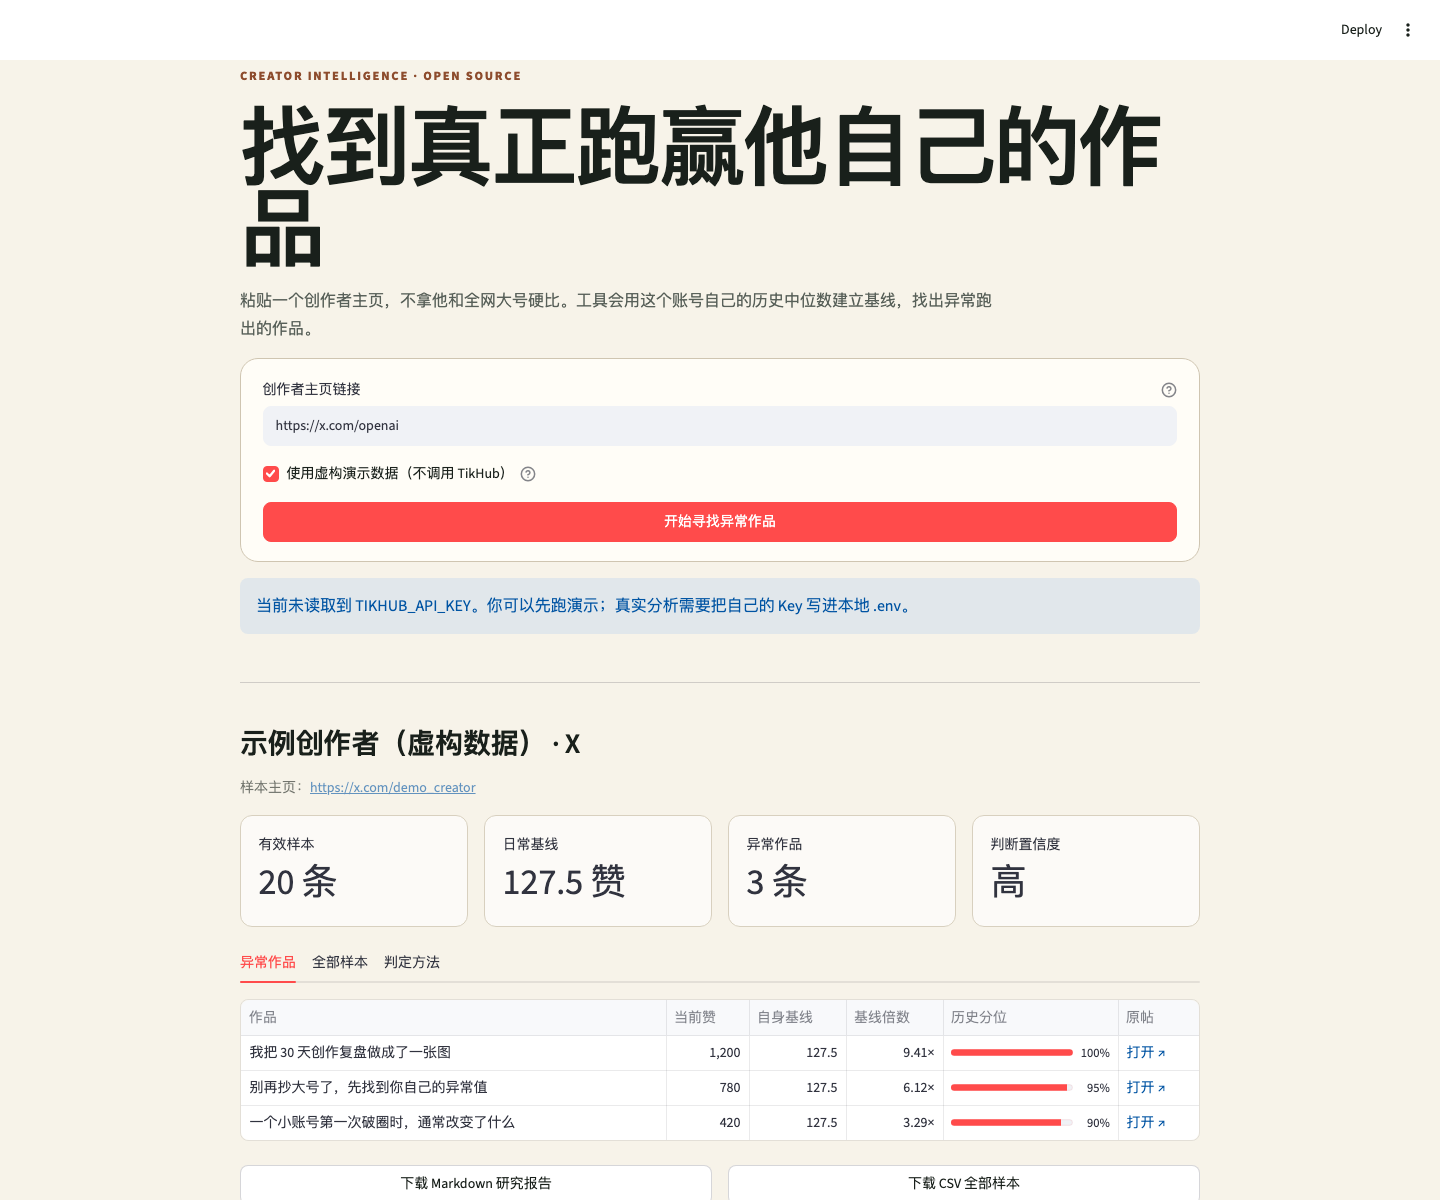
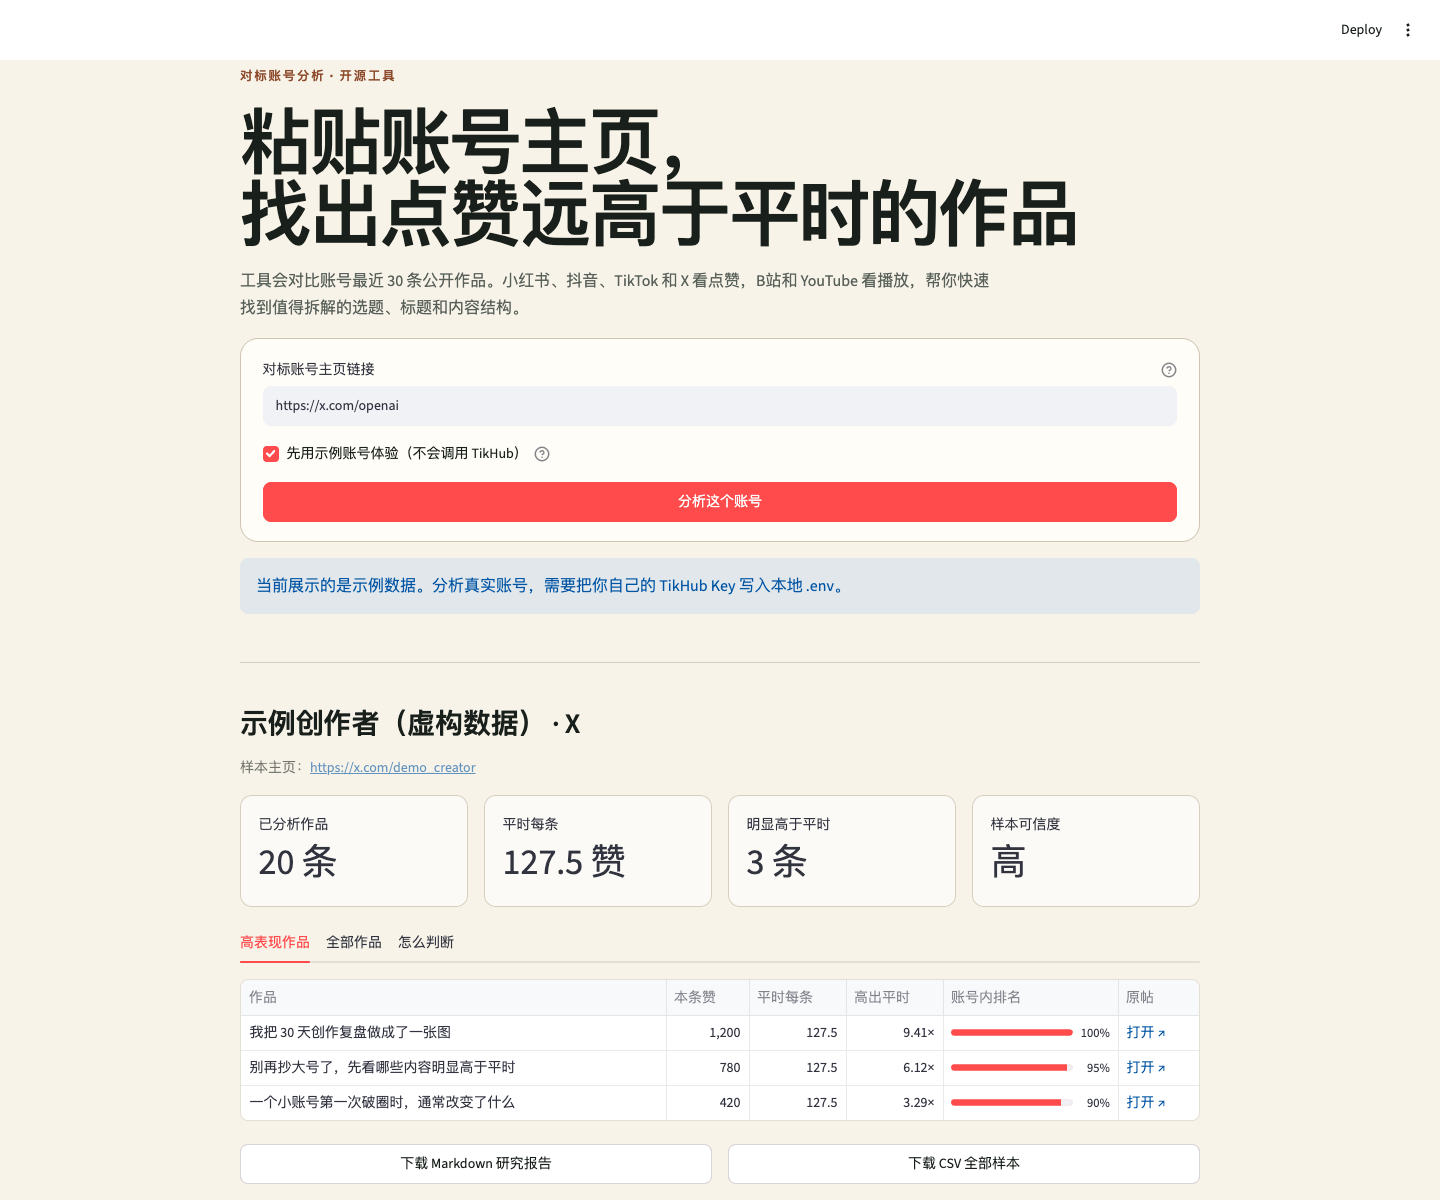
Clarify product copy for v0.1.1 (#1)
Use the confirmed plain-language hero, simplify result labels and reports, refresh the README screenshot, and bump the package version.

diff --git a/app.py b/app.py
@@ -59,7 +59,7 @@ st.markdown(
       .stApp { background: #f7f3e9; color: #19201b; }
       .block-container { max-width: 1120px; padding-top: 3.2rem; padding-bottom: 5rem; }
       h1, h2, h3 { letter-spacing: -0.03em; }
-      h1 { font-size: clamp(2.7rem, 6vw, 5.4rem) !important; line-height: .95 !important; }
+      h1 { font-size: clamp(2.7rem, 5vw, 4.8rem) !important; line-height: 1 !important; }
       [data-testid="stMetric"] { background: rgba(255,255,255,.62); border: 1px solid #d8d0bf;
         border-radius: 12px; padding: 1rem 1.1rem; }
       [data-testid="stForm"] { background: #fffdf7; border: 1px solid #cfc5b1;
@@ -74,11 +74,14 @@ st.markdown(
     unsafe_allow_html=True,
 )
 
-st.markdown('<div class="eyebrow">Creator intelligence · Open source</div>', unsafe_allow_html=True)
-st.title("找到真正跑赢他自己的作品")
+st.markdown('<div class="eyebrow">对标账号分析 · 开源工具</div>', unsafe_allow_html=True)
 st.markdown(
-    '<p class="lead">粘贴一个创作者主页，不拿他和全网大号硬比。'
-    "工具会用这个账号自己的历史中位数建立基线，找出异常跑出的作品。</p>",
+    "<h1>粘贴账号主页，<br>找出点赞远高于平时的作品</h1>",
+    unsafe_allow_html=True,
+)
+st.markdown(
+    '<p class="lead">工具会对比账号最近 30 条公开作品。小红书、抖音、TikTok 和 X 看点赞，'
+    "B站和 YouTube 看播放，帮你快速找到值得拆解的选题、标题和内容结构。</p>",
     unsafe_allow_html=True,
 )
 
@@ -88,21 +91,21 @@ if st.query_params.get("demo") == "1" and "analysis_result" not in st.session_st
 
 with st.form("analysis-form"):
     url = st.text_input(
-        "创作者主页链接",
+        "对标账号主页链接",
         value="https://x.com/openai",
         placeholder="支持小红书、抖音、B站、TikTok、YouTube 和 X",
         help="只接受完整的 HTTPS 创作者主页，不接受作品链接或短链接。",
     )
     use_demo = st.checkbox(
-        "使用虚构演示数据（不调用 TikHub）",
+        "先用示例账号体验（不会调用 TikHub）",
         value=not has_key,
         help="演示数据完全离线，不包含任何真实账号信息。",
     )
-    submitted = st.form_submit_button("开始寻找异常作品", type="primary", width="stretch")
+    submitted = st.form_submit_button("分析这个账号", type="primary", width="stretch")
 
 if submitted:
     try:
-        with st.spinner("正在建立这个账号的历史基线…"):
+        with st.spinner("正在对比这个账号最近的作品…"):
             st.session_state["analysis_result"] = _fetch_and_analyze(url, use_demo)
         st.session_state.pop("analysis_error", None)
     except (ValueError, MissingApiKey, TikHubError, InsufficientSampleError) as error:
@@ -110,7 +113,7 @@ if submitted:
         st.session_state.pop("analysis_result", None)
     except Exception:
         st.session_state["analysis_error"] = (
-            "分析失败，请稍后重试。为保护你的密钥，详细异常不会显示在页面上。"
+            "分析失败，请稍后重试。为保护你的密钥，详细错误不会显示在页面上。"
         )
         st.session_state.pop("analysis_result", None)
 
@@ -118,7 +121,7 @@ if error_message := st.session_state.get("analysis_error"):
     st.error(error_message)
 
 if not has_key:
-    st.info("当前未读取到 TIKHUB_API_KEY。你可以先跑演示；真实分析需要把自己的 Key 写进本地 .env。")
+    st.info("当前展示的是示例数据。分析真实账号，需要把你自己的 TikHub Key 写入本地 .env。")
 else:
     st.caption(
         "已从本地环境读取 TikHub Key。Key 不会进入页面、报告或仓库。真实请求可能产生 TikHub 费用。"
@@ -133,23 +136,23 @@ if result is not None:
     st.caption(f"样本主页：{creator.homepage_url}")
 
     metric_columns = st.columns(4)
-    metric_columns[0].metric("有效样本", f"{result.sample_size} 条")
-    metric_columns[1].metric("日常基线", f"{_format_number(result.baseline)} {result.metric_label}")
-    metric_columns[2].metric("异常作品", f"{len(result.breakouts)} 条")
-    metric_columns[3].metric("判断置信度", CONFIDENCE_LABELS[result.confidence])
+    metric_columns[0].metric("已分析作品", f"{result.sample_size} 条")
+    metric_columns[1].metric("平时每条", f"{_format_number(result.baseline)} {result.metric_label}")
+    metric_columns[2].metric("明显高于平时", f"{len(result.breakouts)} 条")
+    metric_columns[3].metric("样本可信度", CONFIDENCE_LABELS[result.confidence])
 
-    breakout_tab, sample_tab, method_tab = st.tabs(["异常作品", "全部样本", "判定方法"])
+    breakout_tab, sample_tab, method_tab = st.tabs(["高表现作品", "全部作品", "怎么判断"])
     with breakout_tab:
         if not result.breakouts:
-            st.success("这批样本里没有作品同时越过三道门槛。没有异常，也是一条有用结论。")
+            st.success("这批作品里没有找到明显高于账号平时水平的内容。")
         else:
             rows = [
                 {
                     "作品": item.post.title,
-                    f"当前{result.metric_label}": item.value,
-                    "自身基线": item.baseline,
-                    "基线倍数": item.multiple,
-                    "历史分位": item.percentile / 100,
+                    f"本条{result.metric_label}": item.value,
+                    "平时每条": item.baseline,
+                    "高出平时": item.multiple,
+                    "账号内排名": item.percentile / 100,
                     "原帖": item.post.url,
                 }
                 for item in result.breakouts
@@ -160,10 +163,10 @@ if result is not None:
                 width="stretch",
                 column_config={
                     "作品": st.column_config.TextColumn(width="large"),
-                    f"当前{result.metric_label}": st.column_config.NumberColumn(format="localized"),
-                    "自身基线": st.column_config.NumberColumn(format="localized"),
-                    "基线倍数": st.column_config.NumberColumn(format="%.2f×"),
-                    "历史分位": st.column_config.ProgressColumn(
+                    f"本条{result.metric_label}": st.column_config.NumberColumn(format="localized"),
+                    "平时每条": st.column_config.NumberColumn(format="localized"),
+                    "高出平时": st.column_config.NumberColumn(format="%.2f×"),
+                    "账号内排名": st.column_config.ProgressColumn(
                         min_value=0, max_value=1, format="percent"
                     ),
                     "原帖": st.column_config.LinkColumn(display_text="打开 ↗"),
@@ -189,11 +192,11 @@ if result is not None:
     with sample_tab:
         all_rows = [
             {
-                "异常": "是" if item.is_breakout else "否",
+                "明显高于平时": "是" if item.is_breakout else "否",
                 "作品": item.post.title,
                 result.metric_label: item.value,
-                "倍数": item.multiple,
-                "分位": f"{item.percentile:.1f}%",
+                "高出平时": item.multiple,
+                "账号内排名": f"{item.percentile:.1f}%",
                 "原帖": item.post.url,
             }
             for item in result.scored
@@ -212,11 +215,12 @@ if result is not None:
         st.markdown(
             """
             1. 读取最近 30 条带有效指标的公开作品。
-            2. 用中位数代表账号的日常水平，避免少量超级爆款拉高基线。
-            3. 候选作品必须同时满足：达到基线 2 倍、进入历史前 10%、越过绝对量下限。
+            2. 用中位数估算这个账号平时每条能拿到多少赞或播放。
+            3. 一条作品必须至少达到平时的 2 倍、排进样本前 10%，并超过最低数据门槛。
             4. YouTube 和 B站使用播放量，其余平台使用点赞量。
 
-            这是一次性历史快照。它能发现异常表现，但不能证明爆款原因，也不等同于实时增长速度。
+            这是一次性历史快照。它能找出数据明显高于平时的作品，但不能证明走红原因，
+            也不等同于实时增长速度。
             """
         )
 

diff --git a/src/creator_breakout/report.py b/src/creator_breakout/report.py
@@ -52,24 +52,24 @@ def _number(value: float | int) -> str:
 def to_markdown(result: AnalysisResult) -> str:
     creator = result.creator
     lines = [
-        f"# {_cell(creator.name)} 的历史爆款报告",
+        f"# {_cell(creator.name)} 的高表现作品报告",
         "",
         f"- 主页：{_cell(creator.homepage_url)}",
         f"- 平台：{_cell(creator.platform)}",
         f"- 有效样本：{result.sample_size} 条",
-        f"- 日常基线：{_number(result.baseline)} {result.metric_label}",
+        f"- 平时每条：{_number(result.baseline)} {result.metric_label}",
         f"- 置信度：{_CONFIDENCE_LABELS[result.confidence]}",
-        f"- 爆款：{len(result.breakouts)} 条",
+        f"- 明显高于平时：{len(result.breakouts)} 条",
         "",
-        "## 跑赢自身基线的作品",
+        "## 明显高于平时的作品",
         "",
     ]
     if not result.breakouts:
-        lines.append("本次样本中没有作品同时达到 2 倍基线、历史前 10% 和绝对量下限。")
+        lines.append("本次样本中没有找到明显高于账号平时水平的作品。")
     else:
         lines.extend(
             [
-                f"| 日期 | 作品 | 当前{result.metric_label} | 基线 | 倍数 | 历史分位 |",
+                f"| 日期 | 作品 | 本条{result.metric_label} | 平时每条 | 高出平时 | 账号内排名 |",
                 "| --- | --- | ---: | ---: | ---: | ---: |",
             ]
         )
@@ -86,10 +86,12 @@ def to_markdown(result: AnalysisResult) -> str:
             "",
             "## 判定方法",
             "",
-            "使用最近 30 条带有效指标的作品建立中位数基线；候选作品必须达到基线 2 倍、"
-            "进入历史前 10%，并通过最低绝对量门槛。YouTube 与 B站使用播放量，其余平台使用点赞量。",
+            "读取最近 30 条带有效指标的作品，用中位数估算账号平时每条的表现。候选作品必须"
+            "达到平时 2 倍、进入样本前 10%，并通过最低数据门槛。YouTube 与 B站使用播放量，"
+            "其余平台使用点赞量。",
             "",
-            "> 这是一次性历史快照，只说明异常表现，不代表因果，也不等同于实时增长速度。",
+            "> 这是一次性历史快照，只说明作品数据明显高于平时，不代表因果，"
+            "也不等同于实时增长速度。",
         ]
     )
     return "\n".join(lines) + "\n"

diff --git a/tests/test_demo.py b/tests/test_demo.py
@@ -1,3 +1,4 @@
+from creator_breakout import __version__
 from creator_breakout.demo import load_demo_creator
 from creator_breakout.scoring import analyze_creator
 
@@ -10,3 +11,7 @@ def test_demo_is_fictional_and_produces_three_clear_breakouts():
     assert len(creator.posts) == 20
     assert len(result.breakouts) == 3
     assert result.breakouts[0].post.id == "20"
+
+
+def test_public_version_matches_release():
+    assert __version__ == "0.1.1"

diff --git a/tests/test_report.py b/tests/test_report.py
@@ -39,9 +39,14 @@ def result() -> AnalysisResult:
 def test_markdown_report_is_readable_and_escapes_table_content():
     output = to_markdown(result())
 
+    assert "高表现作品报告" in output
+    assert "平时每条" in output
+    assert "明显高于平时的作品" in output
     assert "Creator \\| Demo" in output
     assert "A title \\| with a pipe and a newline" in output
     assert "3.00×" in output
+    assert "日常基线" not in output
+    assert "历史分位" not in output
     assert "TikHub API Key" not in output
 
 

diff --git a/src/creator_breakout/__init__.py b/src/creator_breakout/__init__.py
@@ -4,4 +4,4 @@ from .links import parse_creator_url
 from .scoring import InsufficientSampleError, analyze_creator
 
 __all__ = ["InsufficientSampleError", "analyze_creator", "parse_creator_url"]
-__version__ = "0.1.0"
+__version__ = "0.1.1"

diff --git a/README.md b/README.md
@@ -1,6 +1,6 @@
 # Creator Breakout Finder
 
-粘贴一个创作者主页链接，找到真正跑赢他自己的作品。
+粘贴账号主页，找出点赞远高于平时的作品。
 
 [![CI](https://github.com/guasi18587278913/creator-breakout-finder/actions/workflows/ci.yml/badge.svg)](https://github.com/guasi18587278913/creator-breakout-finder/actions/workflows/ci.yml)
 [![Python 3.11+](https://img.shields.io/badge/Python-3.11%2B-3776AB)](https://www.python.org/)
@@ -8,18 +8,18 @@
 
 ![Creator Breakout Finder 演示页面](docs/creator-breakout-finder.png)
 
-## 为什么做这个工具
+## 它能帮你做什么
 
-研究对标账号时，只看播放量或点赞量很容易被账号体量骗到。一个大号的 10 万赞，可能只是日常发挥；一个小号的 2,000 赞，却可能是一次值得拆解的异常突破。
+研究对标账号时，你真正想知道的不是“哪条点赞最高”，而是“哪条明显超过了这个账号平时的表现”。
 
-Creator Breakout Finder 不拿不同账号横向硬比。它读取一个账号最近的公开作品，用这个账号自己的历史中位数建立基线，再找出显著高于其日常水平的作品。
+Creator Breakout Finder 会读取账号最近的公开作品，和他自己的日常数据对比，找出值得进一步拆解的选题、标题和内容结构。小红书、抖音、TikTok 和 X 看点赞，B站和 YouTube 看播放。
 
 ## 能做什么
 
 - 识别小红书、抖音、B站、TikTok、YouTube 和 X 的完整创作者主页链接
 - 通过用户自己的 [TikHub](https://docs.tikhub.io/) Key 读取最近公开作品
-- 用中位数建立账号自身基线，降低少数超级爆款对基线的干扰
-- 同时检查基线倍数、历史分位和绝对量下限，减少小样本误报
+- 估算这个账号平时每条作品的表现，不拿不同体量的账号硬比
+- 标出至少达到平时 2 倍、并排进近期作品前 10% 的内容
 - 展示判断置信度，并导出 Markdown 研究报告和 CSV 全量样本
 - 内置完全离线的虚构演示数据，不配置 Key 也能体验完整流程
 
@@ -66,7 +66,7 @@ TIKHUB_API_KEY=你的_TikHub_Key
 
 工具有意拒绝作品链接、短链接、非 HTTPS 链接和带账号密码或自定义端口的 URL。TikHub 接口及各平台数据可用性会随服务商和平台变化；这个项目不绕过登录、隐私设置或平台访问限制。
 
-## 爆款怎么判断
+## 怎么判断一条作品明显高于平时
 
 默认分析最近 30 条带有效指标的作品，至少需要 5 条样本；X 的纯转推不会被当成账号自己的作品。候选作品必须同时满足：
 
@@ -88,7 +88,7 @@ TIKHUB_API_KEY=你的_TikHub_Key
 
 ## 局限
 
-这是一次性历史快照，不是等龄增长曲线。旧作品天然有更长时间积累播放和互动，因此结果适合做“值得进一步研究的异常候选”，不能证明爆款原因，也不能等同于实时增长速度。私密、删除、接口未返回或缺少指标的作品不会进入样本。
+这是一次性历史快照，不是等龄增长曲线。旧作品天然有更长时间积累播放和互动，因此结果适合用来筛选“值得进一步研究的作品”，不能证明走红原因，也不能等同于实时增长速度。私密、删除、接口未返回或缺少指标的作品不会进入样本。
 
 ## 开发与测试
 
@@ -102,7 +102,7 @@ uv run pytest
 
 - `links.py`：严格解析和标准化主页链接
 - `providers/tikhub.py`：BYOK TikHub 适配与六平台数据归一化
-- `scoring.py`：创作者自身基线与异常作品判定
+- `scoring.py`：账号日常水平与高表现作品判定
 - `report.py`：Markdown 和 CSV 导出
 - `app.py`：Streamlit 单页界面
 